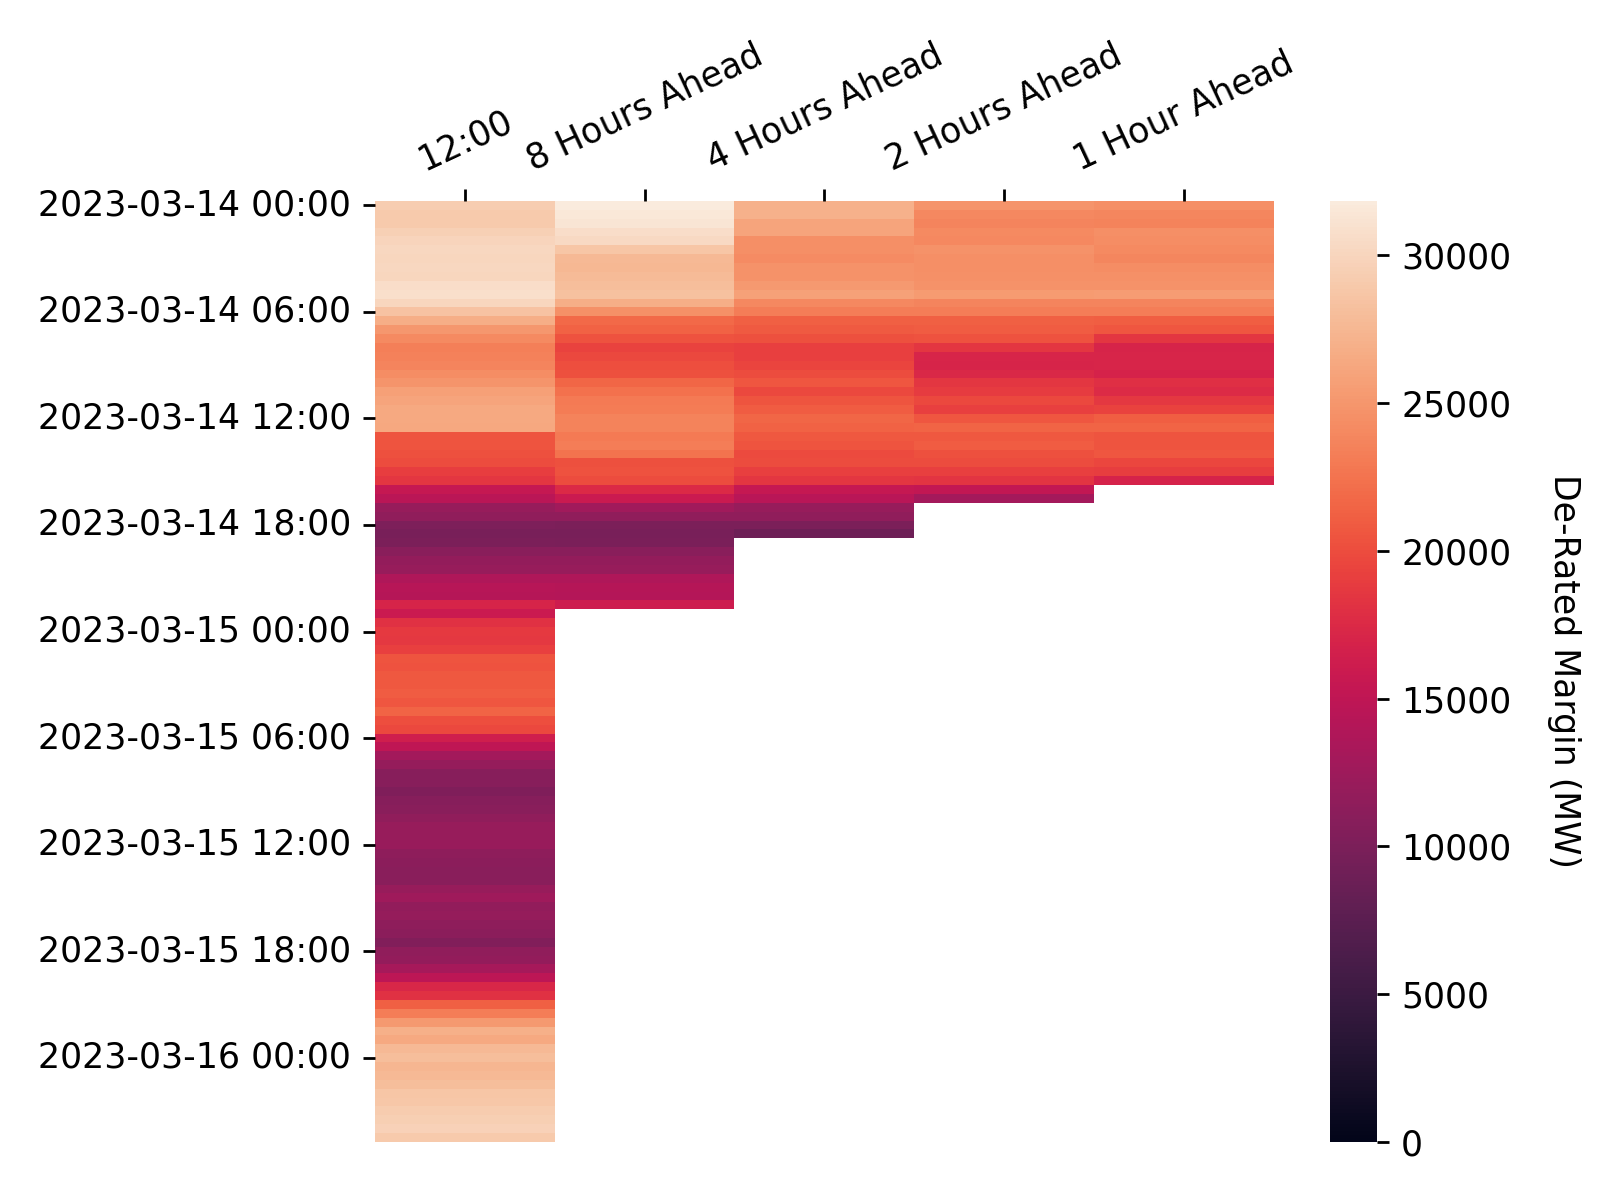
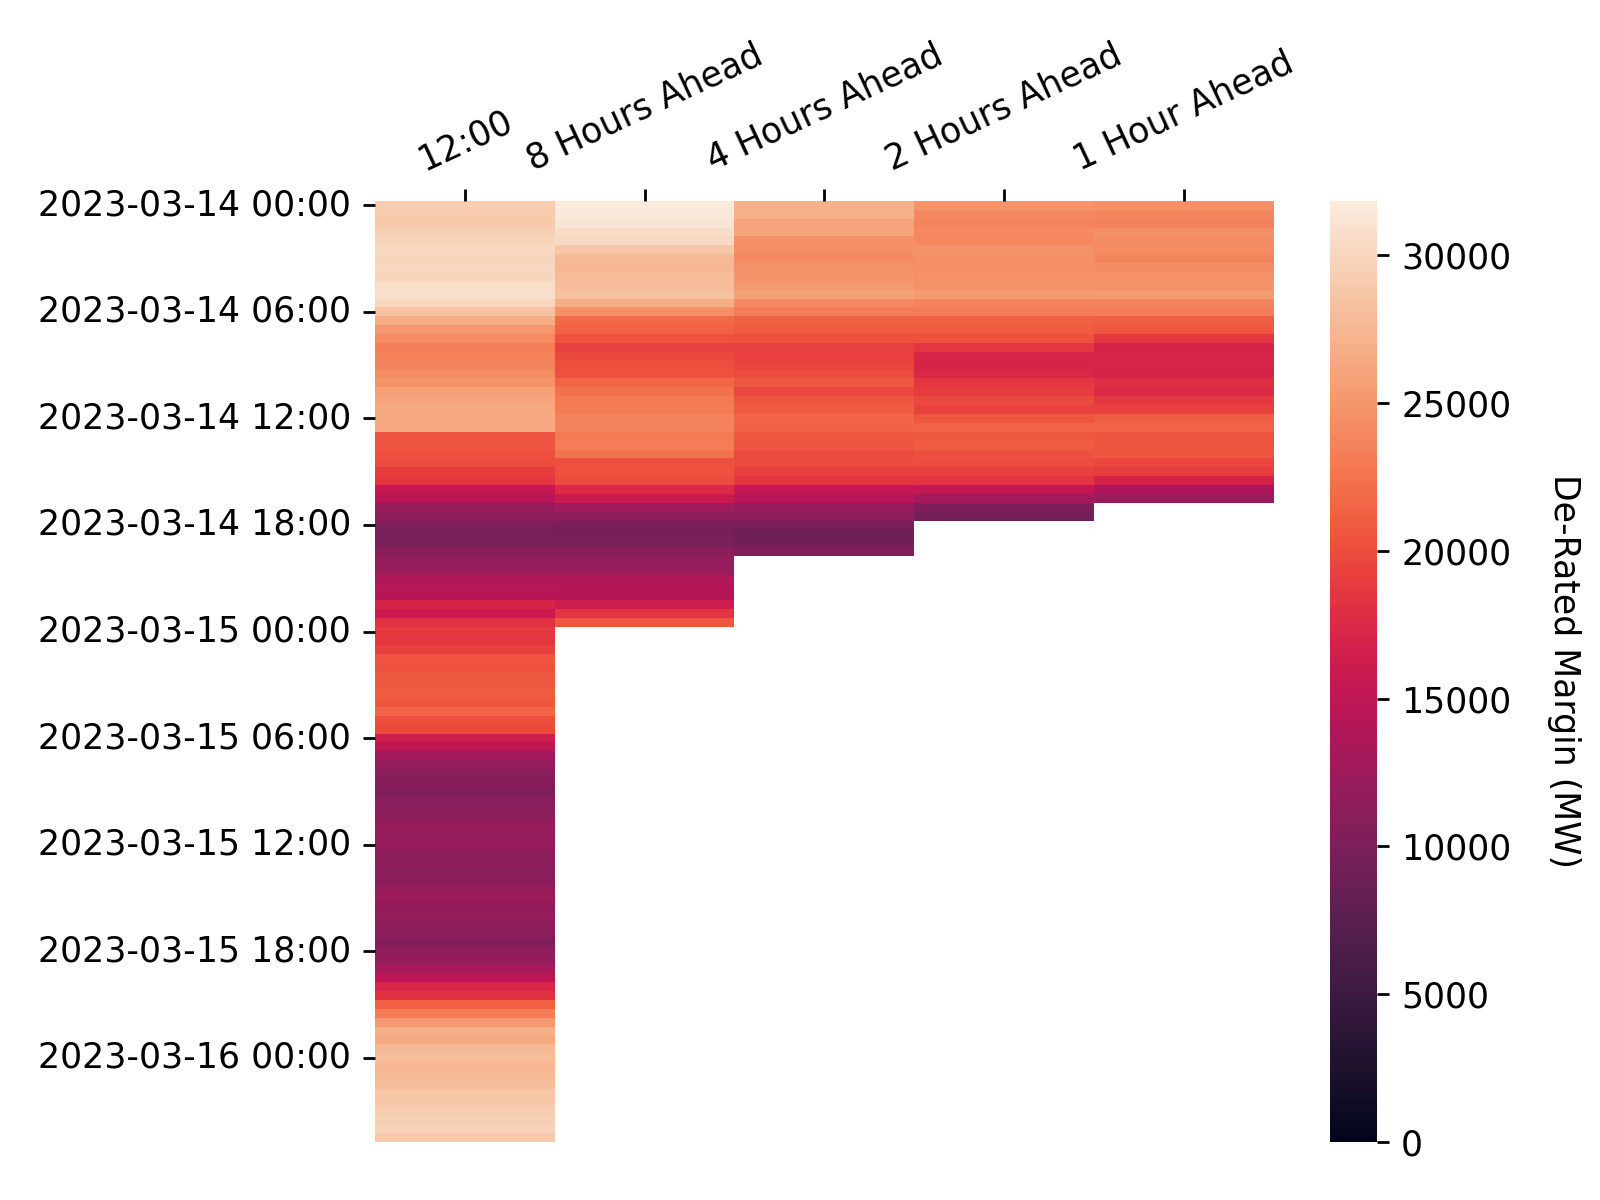
Apply automatic changes

Changed region(s): [[0.4375, 0.4008, 0.8125, 0.4625], [0.3438, 0.4933, 0.4688, 0.5242]]

diff --git a/docs/js/map.js b/docs/js/map.js
@@ -144,7 +144,7 @@ document.addEventListener("DOMContentLoaded", function() {
                 follow: 1
             });
             mymap.addControl(sliderControl);
-            sliderControl.startSlider(334);
+            sliderControl.startSlider(335);
         });
     });
 });

diff --git a/docs/visualisations.md b/docs/visualisations.md
@@ -60,7 +60,7 @@ In each settlement period the system operator publishes the de-rated margin fore
 * At 1200 hours on each calendar day for all Settlement Periods for which Gate Closure has not yet passed and which occur within the current Operational Day or the following Operational Day; and
 * At eight, four, two and one hour(s) prior to the beginning of the Settlement Period to which the De-Rated Margin Forecast relates.
 
-These figures will be updated on an hourly basis, the last update was at: 2023-03-14 15:15
+These figures will be updated on an hourly basis, the last update was at: 2023-03-14 15:40
 
 <br>
 
@@ -83,7 +83,7 @@ The following heatmap shows how the more recent de-rated margin forecasts deviat
 
 ### Power Output Map
 
-Last Updated: 2023-03-14 15:15
+Last Updated: 2023-03-14 15:45
 
 This map shows the power output of individual plants connected to the transmission grid as stated in their most recent Physical Notifications. This data can be retrieved through the *PHYBMDATA* BMRS stream, the out-turn data can be viewed one week later through the *B1610* stream. The scrollbar at the top of the map can be used to view how the generation sources have changed their output over the last week, the layer control can be used to toggle on/off the transmission network, and the plants themselves can be clicked to reveal additional information. The plant location data used in this map has been taking from a sister project, [the Power Station Dictionary](https://osuked.github.io/Power-Station-Dictionary/), which aims to link between data about individual power plants.
 
